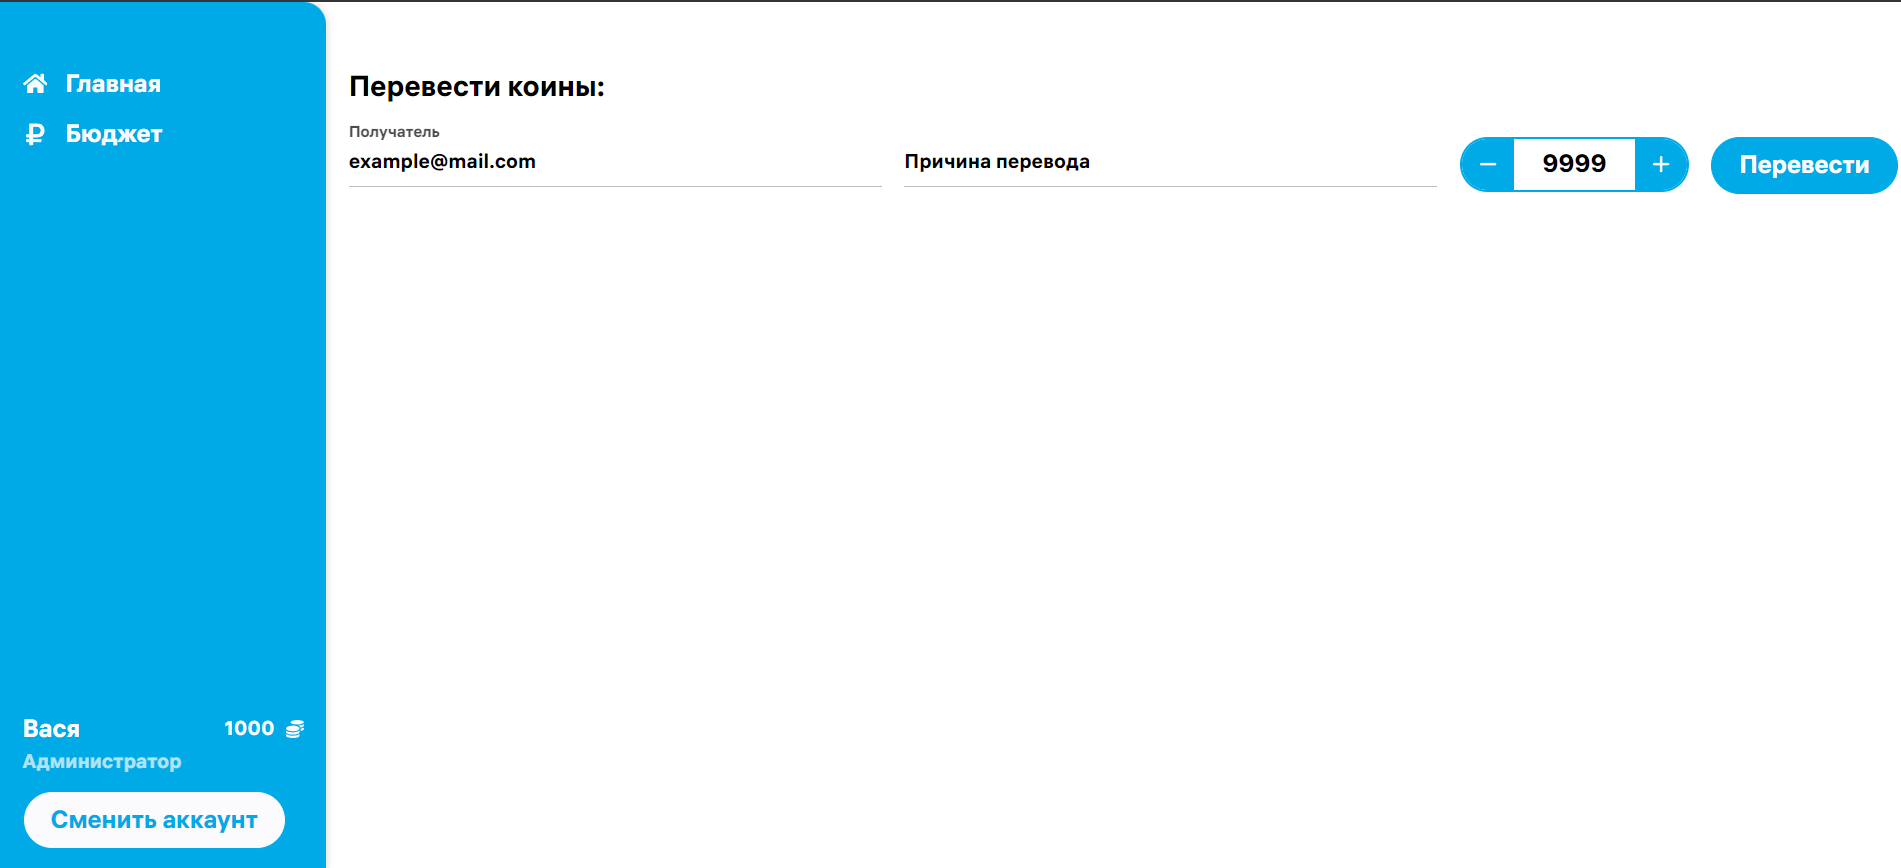
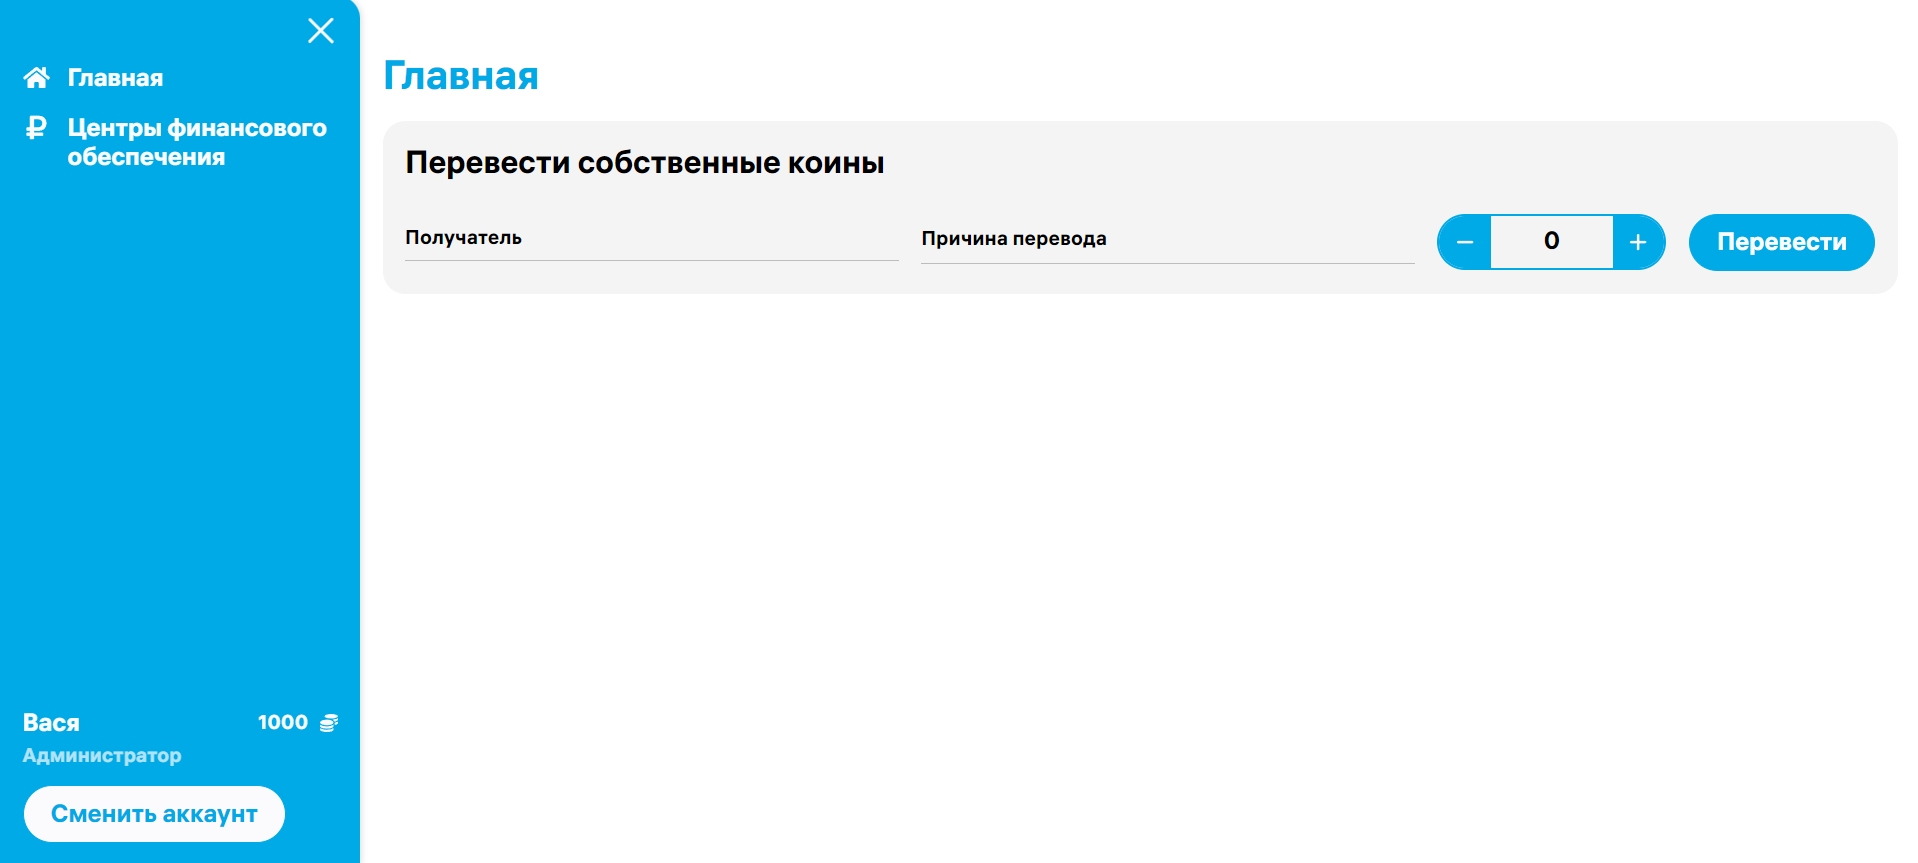
change sidebar styles

diff --git a/src/app/layout/Sidebar.module.css b/src/app/layout/Sidebar.module.css
@@ -6,7 +6,7 @@
   position: fixed;
   padding-top: 60px;
   bottom: 0;
-  transition: all .3s ease-in;
+  transition: all .3s linear;
   box-sizing: border-box;
   top: 0;
   left: 0;
@@ -19,7 +19,7 @@
   justify-content: space-between;
 }
 .close{
-  transition: all .3s ease-in;
+  transition: all .3s linear;
   position: absolute;
   top: 20px;
   right: 20px;
@@ -47,7 +47,7 @@
   transform: none;
 }
 .close span{
-  transition: all .3s ease-in;
+  transition: all .3s linear;
   width: 100%;
   height: 3px;
   background-color: #00aae6;

diff --git a/src/pages/Home/Home.tsx b/src/pages/Home/Home.tsx
@@ -3,7 +3,12 @@ import styles from './Home.module.css';
 const Home = () => {
   return (
     <div className={styles.container}>
-      <TransferForm from={'userName'} />
+      <h2 className={styles.headline}>Главная</h2>
+      <TransferForm
+        from={'userName'}
+        headline='Перевести собственные коины'
+        max={20000}
+      />
     </div>
   );
 };

diff --git a/index.html b/index.html
@@ -3,7 +3,7 @@
 
 <head>
   <meta charset="UTF-8" />
-  <link rel="icon" type="image/svg+xml" href="/vite.svg" />
+  <link rel="icon" type="image/svg+xml" href="/wallet-icon.png" />
   <meta name="viewport" content="width=device-width, initial-scale=1.0" />
   <title>Сервис внутренней валюты</title>
 </head>

diff --git a/src/app/layout/Layout.module.css b/src/app/layout/Layout.module.css
@@ -1,14 +1,15 @@
 .layout {
   display: flex;
-  height: 100vh;
+  min-height: 100vh;
 }
 
 
 .main {
   flex: 1;
   padding: 20px;
+  padding-top: 50px;
   padding-left: 340px;
-  transition: all .3s ease-in;
+  transition: all .3s linear;
 }
 .mainFull{
   padding-left: 20px;

diff --git a/src/pages/Home/Home.module.css b/src/pages/Home/Home.module.css
@@ -1,6 +1,10 @@
-.container{
-  margin-top: 20px;
+/* .container{
   padding: 20px;
   background-color: #f7f7f8;
   border-radius: 20px;
+} */
+.container{
+  display: flex;
+  flex-direction: column;
+  gap: 20px;
 }
